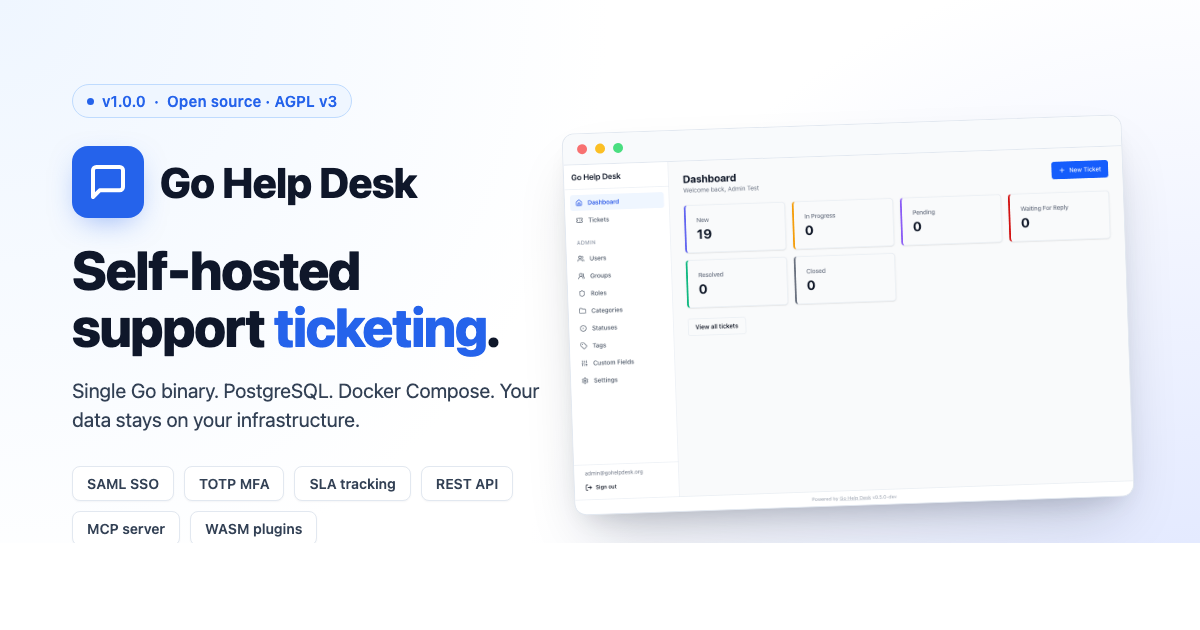
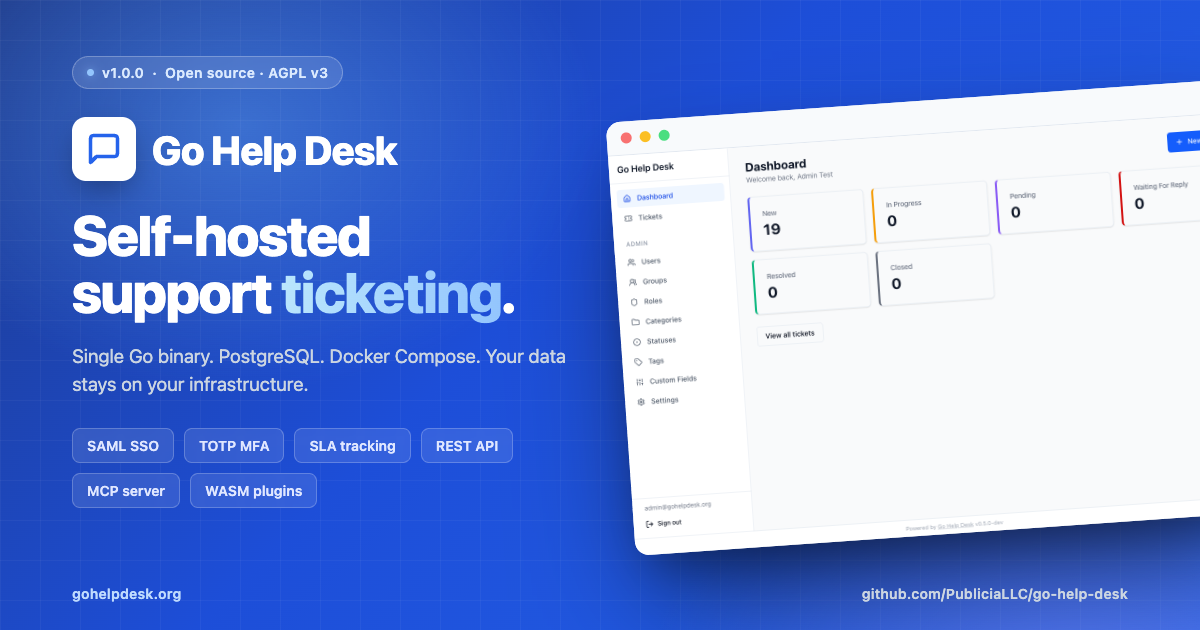
Redesign og:image: full-bleed blue gradient, no white bar
Switched to a dark brand-blue gradient with subtle grid texture so
every pixel is intentional design (no transparent/white gaps from
Chrome headless viewport quirks). Footer text bleeds to both edges.

diff --git a/og-template.html b/og-template.html
@@ -7,132 +7,150 @@
   html, body { width: 1200px; height: 630px; }
   body {
     font-family: -apple-system, BlinkMacSystemFont, "Segoe UI", Roboto, Helvetica, Arial, sans-serif;
-    color: #0f172a;
+    color: #f8fafc;
     background:
-      radial-gradient(circle at 0% 0%, #eff6ff 0%, transparent 45%),
-      radial-gradient(circle at 100% 100%, #e0e7ff 0%, transparent 50%),
-      #ffffff;
-    display: grid;
-    grid-template-columns: 1fr 1fr;
-    align-items: center;
-    padding: 64px 72px;
+      radial-gradient(ellipse 50% 70% at 20% 20%, rgba(96, 165, 250, 0.45) 0%, transparent 60%),
+      radial-gradient(ellipse 60% 80% at 90% 110%, rgba(129, 140, 248, 0.55) 0%, transparent 60%),
+      linear-gradient(135deg, #1e3a8a 0%, #1d4ed8 45%, #2563eb 100%);
     overflow: hidden;
     position: relative;
+  }
+
+  /* Subtle grid pattern overlay for texture */
+  body::before {
+    content: '';
+    position: absolute;
+    inset: 0;
+    background-image:
+      linear-gradient(rgba(255,255,255,0.04) 1px, transparent 1px),
+      linear-gradient(90deg, rgba(255,255,255,0.04) 1px, transparent 1px);
+    background-size: 40px 40px;
+    pointer-events: none;
+  }
+
+  .content {
+    position: absolute;
+    top: 56px;
+    left: 72px;
+    width: 580px;
+    z-index: 2;
   }
 
   .badge {
     display: inline-flex;
     align-items: center;
     gap: 8px;
-    font-size: 15px;
+    font-size: 14px;
     font-weight: 600;
-    color: #2563eb;
-    background: #eff6ff;
-    border: 1px solid #bfdbfe;
+    color: #dbeafe;
+    background: rgba(255, 255, 255, 0.12);
+    border: 1px solid rgba(255, 255, 255, 0.25);
     padding: 7px 14px;
     border-radius: 999px;
-    letter-spacing: 0.02em;
+    letter-spacing: 0.03em;
     margin-bottom: 28px;
+    backdrop-filter: blur(8px);
   }
 
   .badge-dot {
     width: 7px;
     height: 7px;
-    background: #2563eb;
+    background: #93c5fd;
     border-radius: 50%;
+    box-shadow: 0 0 10px rgba(147, 197, 253, 0.8);
   }
 
   .brand {
     display: flex;
     align-items: center;
     gap: 16px;
-    margin-bottom: 24px;
+    margin-bottom: 26px;
   }
 
   .logo {
-    width: 72px;
-    height: 72px;
-    background: #2563eb;
-    border-radius: 16px;
+    width: 64px;
+    height: 64px;
+    background: #ffffff;
+    border-radius: 14px;
     display: flex;
     align-items: center;
     justify-content: center;
-    box-shadow: 0 10px 30px -10px rgba(37, 99, 235, 0.5);
+    box-shadow: 0 12px 32px -8px rgba(0, 0, 0, 0.4);
   }
 
   .wordmark {
-    font-size: 42px;
+    font-size: 40px;
     font-weight: 800;
     letter-spacing: -0.02em;
-    color: #0f172a;
+    color: #ffffff;
   }
 
   h1 {
-    font-size: 54px;
+    font-size: 56px;
     font-weight: 800;
-    line-height: 1.05;
+    line-height: 1.02;
     letter-spacing: -0.025em;
-    color: #0f172a;
-    margin-bottom: 20px;
+    color: #ffffff;
+    margin-bottom: 22px;
   }
 
-  h1 .accent { color: #2563eb; }
+  h1 .accent {
+    background: linear-gradient(90deg, #bae6fd 0%, #93c5fd 100%);
+    -webkit-background-clip: text;
+    background-clip: text;
+    -webkit-text-fill-color: transparent;
+  }
 
   p.tag {
-    font-size: 20px;
+    font-size: 19px;
     line-height: 1.45;
-    color: #334155;
-    max-width: 480px;
-    margin-bottom: 32px;
+    color: #cbd5e1;
+    max-width: 540px;
+    margin-bottom: 30px;
   }
 
   .pills {
     display: flex;
     flex-wrap: wrap;
     gap: 10px;
-    max-width: 500px;
+    max-width: 540px;
   }
 
   .pill {
     font-size: 14px;
     font-weight: 600;
-    color: #334155;
-    background: #fff;
-    border: 1px solid #e2e8f0;
+    color: #e0e7ff;
+    background: rgba(255, 255, 255, 0.10);
+    border: 1px solid rgba(255, 255, 255, 0.22);
     padding: 8px 14px;
     border-radius: 8px;
-    box-shadow: 0 1px 2px rgba(15, 23, 42, 0.04);
-  }
-
-  .right {
-    position: relative;
-    height: 100%;
-    display: flex;
-    align-items: center;
-    justify-content: flex-end;
+    backdrop-filter: blur(4px);
   }
 
   .browser {
-    width: 560px;
+    position: absolute;
+    top: 100px;
+    right: -60px;
+    width: 640px;
     background: #fff;
-    border-radius: 12px;
+    border-radius: 14px;
     box-shadow:
-      0 30px 60px -20px rgba(15, 23, 42, 0.25),
-      0 12px 24px -12px rgba(15, 23, 42, 0.15);
-    border: 1px solid #e2e8f0;
+      0 60px 120px -20px rgba(0, 0, 0, 0.55),
+      0 24px 48px -16px rgba(0, 0, 0, 0.35);
     overflow: hidden;
-    transform: rotate(-2deg);
+    transform: rotate(-4deg);
+    z-index: 1;
   }
 
   .browser-bar {
     background: #f8fafc;
     border-bottom: 1px solid #e2e8f0;
-    padding: 10px 14px;
+    padding: 11px 14px;
     display: flex;
     align-items: center;
     gap: 8px;
   }
-  .dot { width: 10px; height: 10px; border-radius: 50%; }
+  .dot { width: 11px; height: 11px; border-radius: 50%; }
   .dot.r { background: #f87171; }
   .dot.y { background: #fbbf24; }
   .dot.g { background: #4ade80; }
@@ -145,28 +163,39 @@
 
   .footer {
     position: absolute;
-    bottom: 32px;
+    bottom: 28px;
     left: 72px;
     right: 72px;
     display: flex;
     justify-content: space-between;
     align-items: center;
-    font-size: 15px;
-    color: #64748b;
+    font-size: 14px;
+    color: #cbd5e1;
     font-weight: 600;
+    z-index: 3;
+    letter-spacing: 0.02em;
   }
 
-  .footer .domain { color: #2563eb; }
+  .footer .domain { color: #bfdbfe; }
 </style>
 </head>
 <body>
 
-  <div class="left">
+  <div class="browser">
+    <div class="browser-bar">
+      <span class="dot r"></span>
+      <span class="dot y"></span>
+      <span class="dot g"></span>
+    </div>
+    <img src="screenshots/02-dashboard.png" alt="Dashboard" />
+  </div>
+
+  <div class="content">
     <span class="badge"><span class="badge-dot"></span> v1.0.0 &nbsp;·&nbsp; Open source · AGPL v3</span>
 
     <div class="brand">
       <div class="logo">
-        <svg width="40" height="40" viewBox="0 0 24 24" fill="none" stroke="#ffffff" stroke-width="2.4" stroke-linecap="round" stroke-linejoin="round">
+        <svg width="36" height="36" viewBox="0 0 24 24" fill="none" stroke="#2563eb" stroke-width="2.4" stroke-linecap="round" stroke-linejoin="round">
           <path d="M21 15a2 2 0 0 1-2 2H7l-4 4V5a2 2 0 0 1 2-2h14a2 2 0 0 1 2 2z"/>
         </svg>
       </div>
@@ -184,17 +213,6 @@
       <span class="pill">REST API</span>
       <span class="pill">MCP server</span>
       <span class="pill">WASM plugins</span>
-    </div>
-  </div>
-
-  <div class="right">
-    <div class="browser">
-      <div class="browser-bar">
-        <span class="dot r"></span>
-        <span class="dot y"></span>
-        <span class="dot g"></span>
-      </div>
-      <img src="screenshots/02-dashboard.png" alt="Dashboard" />
     </div>
   </div>
 
